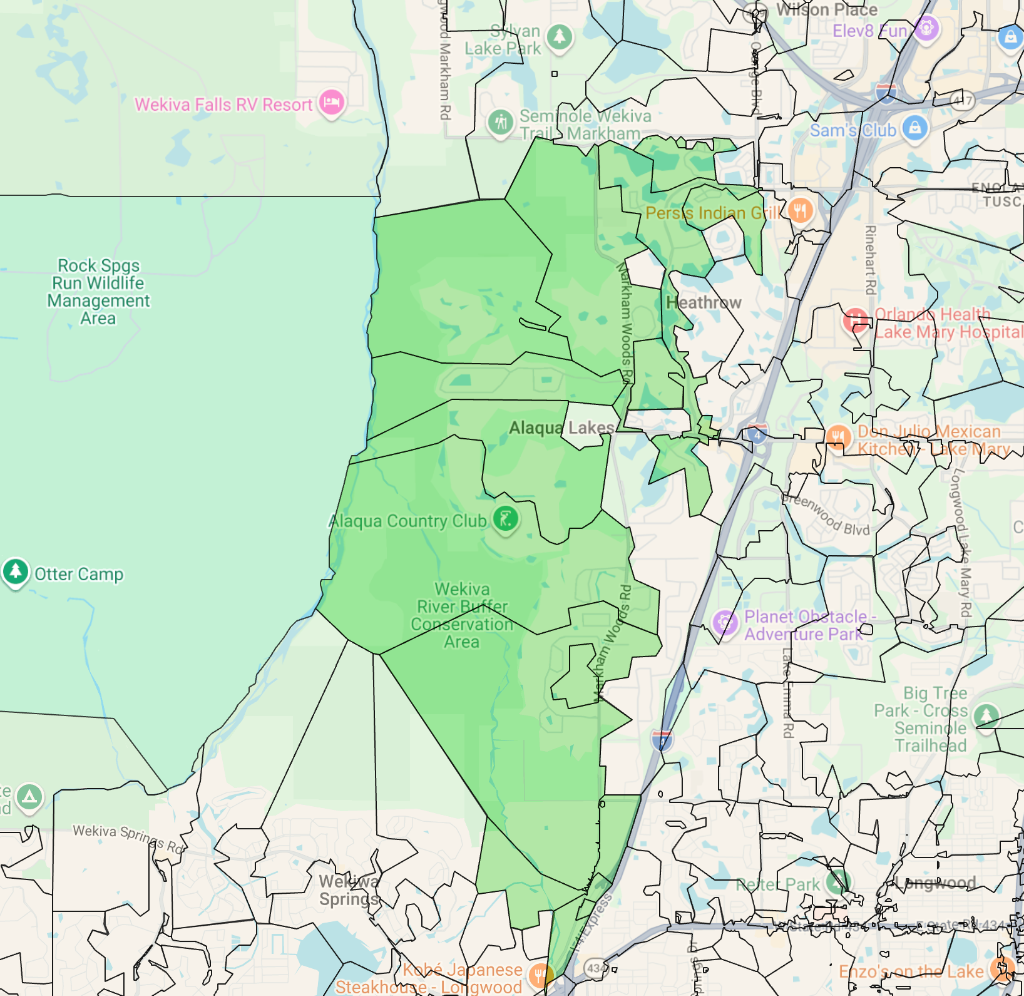
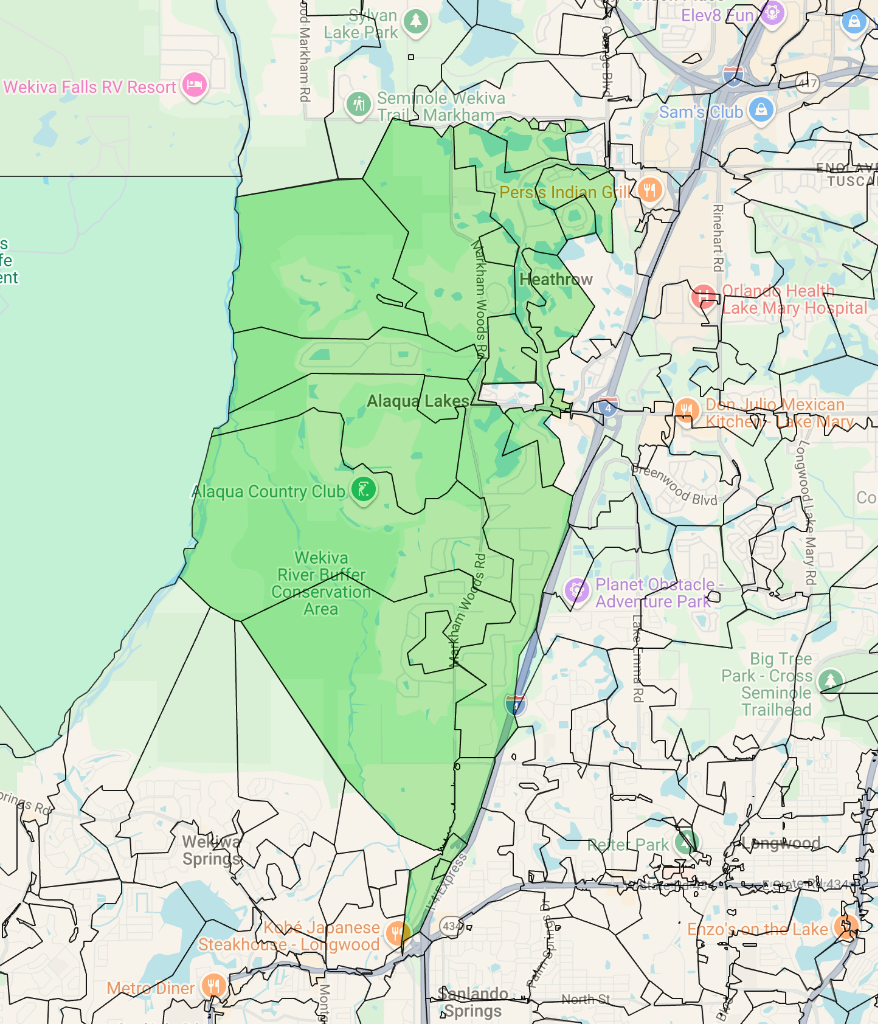
Update Markham Woods map, set doors to 5000, update pricing to 595/1095/395 and sync town averages

diff --git a/data/townAverages.ts b/data/townAverages.ts
@@ -25,14 +25,18 @@ export const townAverages: Record<string, TownAverage> = {
   "markhamwoods": {
     slug: "markhamwoods",
     city: "Markham Woods",
-    doors: 4000,
-    income: "$234,912",
-    householdSize: 3.2,
-    age: 54,
+    doors: 5000,
+    income: "$211,831",
+    householdSize: 3.1,
+    age: 55,
     residencyLength: 14,
-    homeowner: 97,
+    homeowner: 84,
     mapImageUrl: "/assets/markham_woods_map.png",
-    pricing: DEFAULT_PRICING,
+    pricing: {
+      standard: 595,
+      double: 1095,
+      half: 395,
+    },
   },
   "longwood-lakemary": {
     slug: "longwood-lakemary",
@@ -42,7 +46,7 @@ export const townAverages: Record<string, TownAverage> = {
     householdSize: 2.7,
     age: 54,
     residencyLength: 15,
-    homeowner: 92,
+    homeowner: 59,
     mapImageUrl: "/assets/longwood_lakemary_map.jpg",
     pricing: DEFAULT_PRICING,
   },
@@ -54,7 +58,7 @@ export const townAverages: Record<string, TownAverage> = {
     householdSize: 2.6,
     age: 53,
     residencyLength: 12,
-    homeowner: 92,
+    homeowner: 57,
     mapImageUrl: "/assets/sanford_map.png",
     pricing: DEFAULT_PRICING,
   },
@@ -66,7 +70,7 @@ export const townAverages: Record<string, TownAverage> = {
     householdSize: 2.8,
     age: 54,
     residencyLength: 15,
-    homeowner: 86,
+    homeowner: 88,
     mapImageUrl: "/assets/altamonte_springs_map.png",
     pricing: DEFAULT_PRICING,
   },

diff --git a/data/routes.ts b/data/routes.ts
@@ -55,9 +55,9 @@ export const campaignRoutes: CampaignRoute[] = [
     tagline: "Connecting Markham Woods Businesses With Local Families",
     city: "Markham Woods",
     state: "FL",
-    size: 4000,
+    size: 5000,
     totalSlots: 16,
-    pricing: { standard: 695, double: 1250, half: 395 },
+    pricing: { standard: 595, double: 1095, half: 395 },
     slots: createTownSlots([
       {
         id: "s2",
